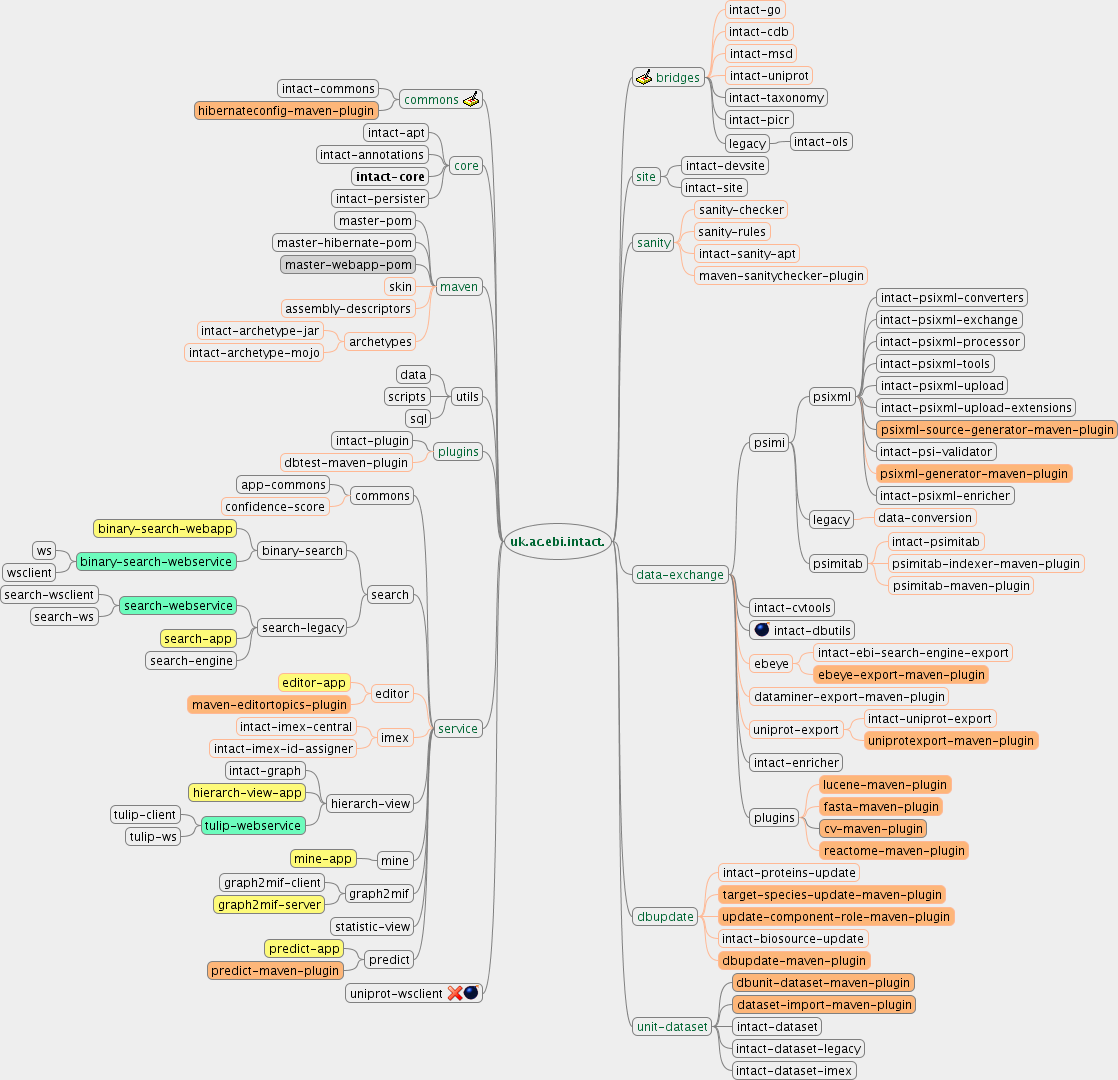
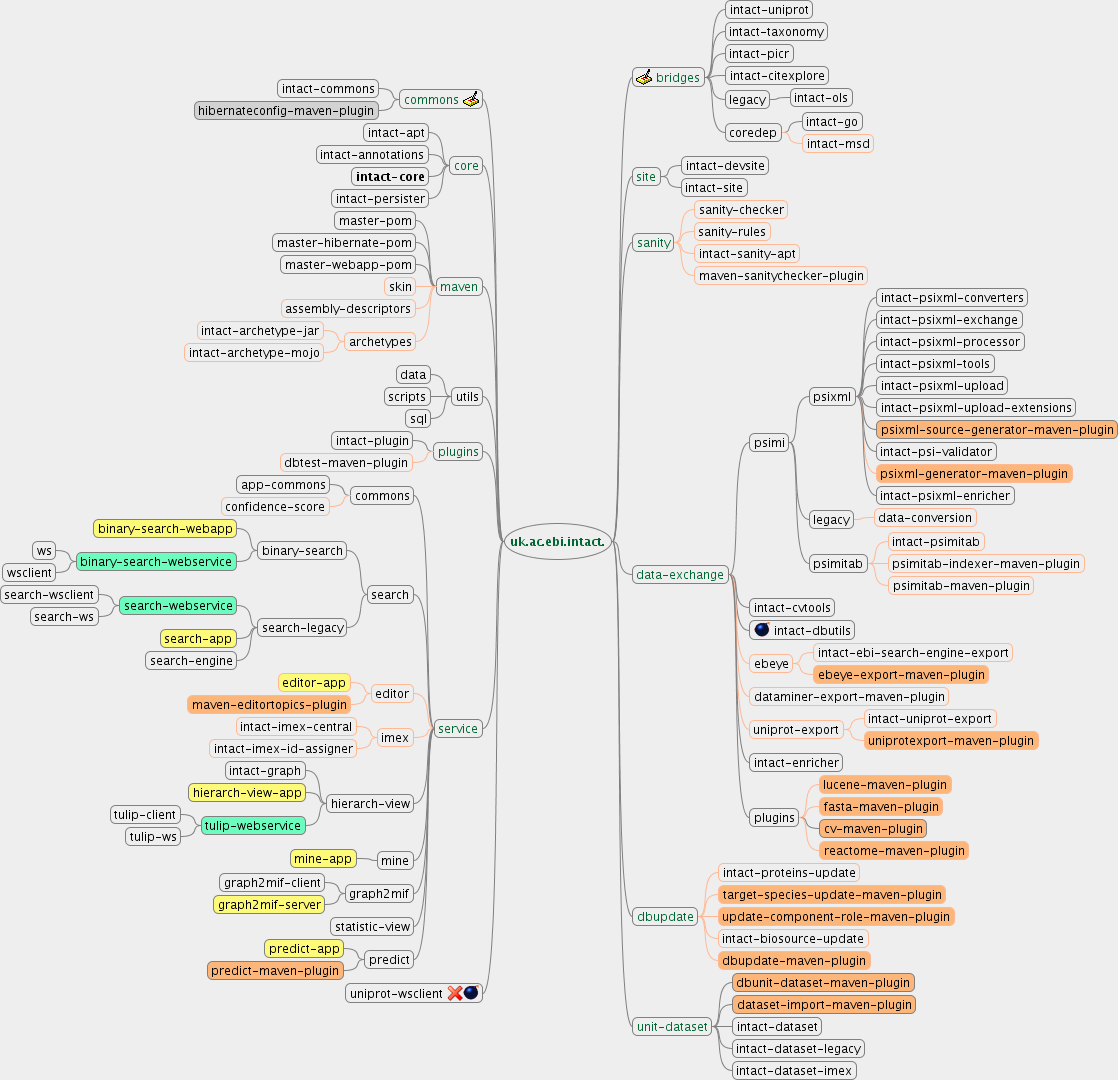
Fixed svn:externals after some moves

Changed region(s): [[0.6386, 0.0, 0.7907, 0.1528], [0.2433, 0.2139, 0.3649, 0.275], [0.1521, 0.0917, 0.3345, 0.1222]]

diff --git a/repo/current/intact-modules.mm b/repo/current/intact-modules.mm
@@ -7,8 +7,8 @@
 <hook NAME="accessories/plugins/NodeNote.properties">
 <text/>
 </hook>
-<node CREATED="1181219911055" ID="Freemind_Link_855748950" MODIFIED="1181306886210" TEXT="intact-uniprot">
-<edge COLOR="#ffb894" WIDTH="thin"/>
+<node CREATED="1181219911055" ID="Freemind_Link_855748950" MODIFIED="1185528116822" TEXT="intact-uniprot">
+<edge COLOR="#808080" WIDTH="thin"/>
 <font NAME="SansSerif" SIZE="12"/>
 </node>
 <node CREATED="1181219908288" ID="Freemind_Link_1699368659" MODIFIED="1184856117192" TEXT="intact-taxonomy">
@@ -16,6 +16,7 @@
 <font NAME="SansSerif" SIZE="12"/>
 </node>
 <node CREATED="1184856102864" ID="Freemind_Link_1600959279" MODIFIED="1184856106709" TEXT="intact-picr"/>
+<node CREATED="1185528168392" ID="Freemind_Link_1577258806" MODIFIED="1185528172685" TEXT="intact-citexplore"/>
 <node CREATED="1184856095206" ID="Freemind_Link_187827585" MODIFIED="1184856098312" TEXT="legacy">
 <node CREATED="1181219890339" ID="Freemind_Link_991036459" MODIFIED="1184856130649" TEXT="intact-ols">
 <edge COLOR="#808080" WIDTH="thin"/>
@@ -25,10 +26,6 @@
 <node CREATED="1184935548743" ID="Freemind_Link_730647088" MODIFIED="1184935552816" TEXT="coredep">
 <node CREATED="1181219872733" ID="Freemind_Link_1932545838" MODIFIED="1184935587392" TEXT="intact-go">
 <edge COLOR="#808080" WIDTH="thin"/>
-<font NAME="SansSerif" SIZE="12"/>
-</node>
-<node CREATED="1181219848272" ID="Freemind_Link_373515143" MODIFIED="1181306883689" TEXT="intact-cdb">
-<edge COLOR="#ffb894" WIDTH="thin"/>
 <font NAME="SansSerif" SIZE="12"/>
 </node>
 <node CREATED="1181219887550" ID="Freemind_Link_278679673" MODIFIED="1181306884986" TEXT="intact-msd">
